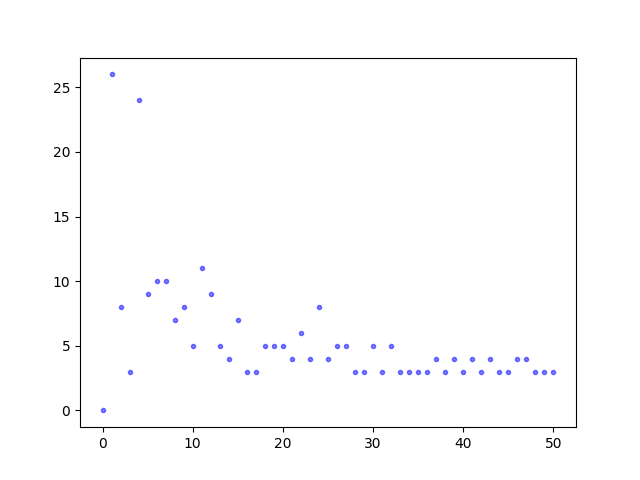
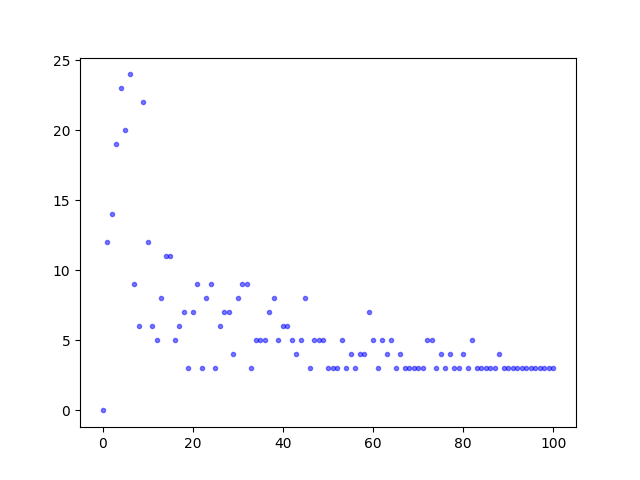
testing for 100 nodes

diff --git a/dijkstra/input_graph.h b/dijkstra/input_graph.h
@@ -3,16 +3,16 @@
 
 #include <stdint.h>
 
-#define NUM_NODES 50
-#define NUM_EDGES 282
+#define NUM_NODES 100
+#define NUM_EDGES 582
 
-uint NODES[51] = {
-0, 26, 34, 37, 61, 70, 80, 90, 97, 105, 110, 121, 130, 135, 139, 146, 149, 152, 157, 162, 167, 171, 177, 181, 189, 193, 198, 203, 206, 209, 214, 217, 222, 225, 228, 231, 234, 238, 241, 245, 248, 252, 255, 259, 262, 265, 269, 273, 276, 279, 282};
+uint NODES[101] = {
+0, 12, 26, 45, 68, 88, 112, 121, 127, 149, 161, 167, 172, 180, 191, 202, 207, 213, 220, 223, 230, 239, 242, 250, 259, 262, 268, 275, 282, 286, 294, 303, 312, 315, 320, 325, 330, 337, 345, 350, 356, 362, 367, 371, 376, 384, 387, 392, 397, 402, 405, 408, 411, 416, 419, 423, 426, 430, 434, 441, 446, 449, 454, 458, 463, 466, 470, 473, 476, 479, 482, 485, 490, 495, 498, 502, 505, 509, 512, 515, 519, 522, 527, 530, 533, 536, 539, 542, 546, 549, 552, 555, 558, 561, 564, 567, 570, 573, 576, 579, 582};
 
-uint EDGES[282] = {
-3, 4, 5, 6, 8, 9, 11, 13, 16, 17, 18, 19, 21, 23, 24, 26, 28, 29, 32, 34, 37, 40, 41, 44, 46, 49, 3, 4, 7, 8, 12, 15, 26, 36, 3, 5, 9, 0, 1, 2, 4, 5, 6, 7, 8, 11, 14, 15, 16, 18, 19, 21, 24, 25, 27, 30, 32, 34, 36, 41, 47, 0, 1, 3, 7, 9, 11, 20, 37, 45, 0, 2, 3, 6, 10, 20, 26, 38, 44, 46, 0, 3, 5, 10, 12, 20, 29, 33, 36, 48, 1, 3, 4, 23, 27, 32, 38, 0, 1, 3, 16, 17, 18, 19, 22, 0, 2, 4, 10, 49, 5, 6, 9, 13, 14, 15, 22, 23, 29, 40, 45, 0, 3, 4, 12, 13, 14, 31, 35, 39, 1, 6, 11, 22, 41, 0, 10, 11, 49, 3, 10, 11, 17, 25, 31, 35, 1, 3, 10, 0, 3, 8, 0, 8, 14, 28, 34, 0, 3, 8, 30, 39, 0, 3, 8, 21, 40, 4, 5, 6, 35, 0, 3, 19, 31, 33, 43, 8, 10, 12, 33, 0, 7, 10, 24, 25, 39, 42, 44, 0, 3, 23, 28, 3, 14, 23, 27, 37, 0, 1, 5, 38, 42, 3, 7, 25, 0, 17, 24, 0, 6, 10, 30, 43, 3, 18, 29, 11, 14, 21, 43, 48, 0, 3, 7, 6, 21, 22, 0, 3, 17, 11, 14, 20, 1, 3, 6, 45, 0, 4, 25, 5, 7, 26, 42, 11, 18, 23, 0, 10, 19, 46, 0, 3, 12, 23, 26, 38, 48, 21, 29, 31, 0, 5, 23, 4, 10, 36, 47, 0, 5, 40, 47, 3, 45, 46, 6, 31, 42, 0, 9, 13};
+uint EDGES[582] = {
+3, 4, 5, 8, 14, 31, 35, 61, 77, 79, 88, 91, 3, 4, 7, 9, 10, 13, 17, 19, 41, 50, 70, 79, 81, 87, 3, 4, 5, 7, 9, 12, 13, 15, 17, 19, 24, 40, 41, 43, 46, 47, 56, 71, 78, 0, 1, 2, 6, 7, 18, 21, 23, 24, 26, 27, 29, 30, 35, 36, 40, 44, 53, 66, 67, 76, 80, 84, 0, 1, 2, 5, 6, 8, 15, 16, 22, 24, 30, 32, 34, 42, 55, 58, 66, 68, 78, 92, 0, 2, 4, 6, 8, 10, 12, 14, 16, 20, 25, 28, 31, 33, 36, 37, 44, 45, 51, 53, 71, 77, 89, 96, 3, 4, 5, 23, 29, 46, 59, 62, 65, 1, 2, 3, 11, 37, 72, 0, 4, 5, 9, 10, 11, 12, 13, 14, 22, 25, 30, 31, 50, 55, 64, 69, 73, 74, 75, 80, 99, 1, 2, 8, 11, 17, 19, 29, 33, 45, 61, 67, 85, 1, 5, 8, 20, 23, 26, 7, 8, 9, 52, 75, 2, 5, 8, 18, 48, 69, 82, 87, 1, 2, 8, 15, 18, 20, 22, 28, 37, 81, 91, 0, 5, 8, 34, 49, 54, 68, 69, 70, 71, 90, 2, 4, 13, 16, 56, 4, 5, 15, 21, 63, 97, 1, 2, 9, 38, 80, 85, 90, 3, 12, 13, 1, 2, 9, 47, 77, 94, 97, 5, 10, 13, 21, 25, 26, 52, 95, 96, 3, 16, 20, 4, 8, 13, 27, 48, 54, 72, 93, 3, 6, 10, 32, 42, 60, 62, 65, 74, 2, 3, 4, 5, 8, 20, 27, 28, 94, 3, 10, 20, 33, 47, 63, 76, 3, 22, 25, 32, 34, 65, 95, 5, 13, 25, 86, 3, 6, 9, 35, 39, 40, 43, 45, 3, 4, 8, 38, 39, 49, 53, 54, 90, 0, 5, 8, 36, 56, 57, 79, 84, 88, 4, 23, 27, 5, 9, 26, 87, 93, 4, 14, 27, 43, 75, 0, 3, 29, 49, 52, 3, 5, 31, 38, 39, 41, 46, 5, 7, 13, 44, 59, 88, 98, 99, 17, 30, 36, 60, 68, 29, 30, 36, 66, 85, 95, 2, 3, 29, 42, 57, 63, 1, 2, 36, 50, 93, 4, 23, 40, 82, 2, 29, 34, 58, 89, 3, 5, 37, 48, 51, 59, 60, 83, 5, 9, 29, 2, 6, 36, 64, 73, 2, 19, 26, 51, 99, 12, 22, 44, 78, 94, 14, 30, 35, 1, 8, 41, 5, 44, 47, 11, 20, 35, 55, 89, 3, 5, 30, 14, 22, 30, 62, 4, 8, 52, 2, 15, 31, 57, 31, 40, 56, 58, 4, 43, 57, 70, 72, 82, 84, 6, 37, 44, 61, 64, 23, 38, 44, 0, 9, 59, 67, 73, 6, 23, 54, 86, 16, 26, 40, 83, 96, 8, 46, 59, 6, 23, 27, 83, 3, 4, 39, 3, 9, 61, 4, 14, 38, 8, 12, 14, 1, 14, 58, 2, 5, 14, 74, 92, 7, 22, 58, 76, 97, 8, 46, 61, 8, 23, 71, 91, 8, 11, 34, 3, 26, 72, 86, 0, 5, 19, 2, 4, 48, 0, 1, 31, 81, 3, 8, 17, 1, 13, 79, 92, 98, 12, 42, 58, 44, 63, 65, 3, 31, 58, 9, 17, 39, 28, 62, 76, 1, 12, 33, 98, 0, 31, 37, 5, 43, 52, 14, 17, 30, 0, 13, 74, 4, 71, 81, 22, 33, 41, 19, 25, 48, 20, 27, 39, 5, 20, 63, 16, 19, 72, 37, 81, 87, 8, 37, 47};
 
-uint WEIGHTS[282] = {
-7, 5, 8, 6, 6, 1, 6, 6, 4, 3, 6, 8, 8, 6, 5, 7, 6, 5, 9, 5, 1, 5, 4, 4, 1, 9, 3, 1, 6, 5, 2, 1, 7, 7, 5, 3, 4, 1, 5, 3, 7, 5, 4, 7, 2, 1, 3, 6, 3, 6, 8, 6, 7, 1, 2, 7, 3, 1, 4, 7, 8, 7, 1, 5, 6, 5, 2, 9, 6, 4, 9, 7, 7, 4, 7, 5, 2, 4, 8, 7, 1, 4, 2, 9, 2, 8, 8, 4, 4, 3, 5, 4, 9, 8, 8, 3, 6, 3, 2, 2, 7, 5, 5, 8, 1, 2, 8, 8, 3, 5, 6, 3, 1, 1, 7, 9, 6, 3, 9, 8, 4, 5, 8, 6, 9, 9, 7, 7, 3, 7, 7, 7, 6, 2, 4, 3, 3, 5, 3, 8, 1, 9, 6, 3, 3, 5, 8, 2, 2, 9, 1, 8, 7, 5, 2, 2, 5, 1, 2, 3, 2, 5, 4, 8, 7, 9, 4, 8, 9, 4, 1, 2, 1, 9, 9, 5, 6, 1, 9, 4, 5, 8, 4, 4, 7, 3, 2, 8, 6, 6, 8, 4, 1, 8, 3, 3, 8, 9, 6, 3, 9, 4, 2, 6, 2, 3, 3, 7, 8, 3, 8, 6, 6, 6, 5, 2, 4, 1, 4, 7, 7, 4, 5, 8, 6, 8, 5, 4, 3, 3, 3, 2, 4, 6, 1, 4, 8, 1, 3, 5, 2, 5, 6, 2, 4, 4, 3, 2, 3, 5, 5, 1, 5, 1, 6, 6, 9, 5, 9, 9, 2, 5, 2, 4, 1, 5, 3, 1, 2, 8, 3, 9, 7, 4, 3, 1, 5, 2, 3, 5, 4, 6};
+uint WEIGHTS[582] = {
+9, 7, 7, 1, 2, 7, 3, 8, 8, 6, 2, 9, 1, 5, 5, 7, 8, 8, 9, 5, 1, 2, 3, 5, 3, 4, 3, 9, 1, 7, 4, 8, 5, 9, 8, 3, 4, 4, 9, 5, 9, 2, 5, 4, 3, 5, 7, 5, 7, 8, 4, 5, 6, 7, 8, 4, 5, 8, 4, 5, 7, 9, 6, 7, 7, 8, 2, 5, 7, 4, 9, 6, 5, 5, 1, 5, 3, 3, 6, 3, 9, 1, 4, 6, 4, 4, 8, 1, 3, 4, 4, 2, 4, 5, 7, 1, 5, 3, 2, 3, 8, 1, 7, 6, 6, 5, 8, 1, 3, 7, 1, 3, 1, 7, 9, 1, 3, 1, 6, 1, 2, 8, 5, 8, 3, 1, 4, 4, 8, 5, 7, 2, 9, 5, 6, 9, 4, 6, 5, 8, 1, 6, 5, 9, 7, 8, 5, 5, 2, 6, 5, 1, 5, 6, 9, 2, 7, 9, 2, 3, 3, 6, 8, 4, 5, 5, 4, 2, 5, 4, 6, 2, 7, 8, 8, 4, 6, 7, 4, 9, 2, 3, 1, 1, 6, 5, 3, 5, 5, 1, 4, 5, 3, 5, 8, 2, 6, 1, 1, 4, 6, 3, 1, 4, 7, 6, 7, 5, 8, 6, 9, 4, 5, 3, 2, 8, 4, 3, 2, 3, 4, 7, 4, 7, 4, 8, 5, 1, 6, 9, 4, 4, 6, 4, 6, 3, 3, 3, 2, 7, 9, 4, 6, 5, 8, 5, 3, 1, 1, 4, 8, 3, 2, 6, 3, 9, 7, 9, 7, 8, 2, 9, 1, 3, 9, 8, 8, 5, 9, 4, 3, 6, 4, 4, 7, 6, 1, 2, 8, 1, 6, 1, 5, 4, 3, 3, 4, 6, 5, 5, 7, 6, 9, 9, 1, 5, 8, 2, 4, 6, 4, 4, 6, 3, 6, 2, 1, 8, 5, 5, 1, 8, 1, 6, 9, 2, 8, 2, 1, 3, 8, 6, 2, 3, 4, 6, 8, 8, 3, 8, 6, 5, 7, 4, 1, 2, 2, 8, 6, 9, 3, 1, 5, 9, 3, 5, 7, 7, 5, 8, 3, 5, 4, 8, 2, 5, 4, 6, 1, 6, 2, 1, 8, 2, 8, 6, 6, 9, 6, 2, 9, 8, 5, 4, 9, 1, 4, 3, 3, 8, 6, 9, 8, 2, 3, 2, 2, 9, 7, 8, 5, 1, 9, 2, 3, 4, 2, 2, 4, 6, 8, 2, 9, 8, 2, 9, 3, 9, 2, 5, 3, 3, 8, 4, 6, 8, 9, 5, 7, 1, 8, 2, 8, 4, 3, 3, 8, 7, 2, 1, 5, 3, 1, 4, 4, 3, 9, 8, 9, 7, 3, 3, 1, 1, 2, 2, 5, 2, 2, 8, 8, 9, 9, 6, 8, 3, 5, 1, 6, 7, 7, 1, 7, 3, 6, 2, 7, 3, 3, 4, 1, 2, 5, 8, 9, 8, 1, 1, 5, 4, 5, 5, 2, 2, 1, 8, 7, 6, 3, 6, 4, 3, 2, 5, 2, 8, 9, 8, 2, 8, 5, 5, 2, 3, 2, 9, 3, 6, 1, 2, 1, 6, 5, 1, 2, 7, 2, 7, 1, 2, 7, 5, 8, 3, 6, 2, 8, 5, 3, 8, 9, 6, 2, 8, 5, 9, 5, 7, 3, 5, 1, 4, 1, 8, 1, 2, 6, 2, 1, 8, 7, 6, 6, 3, 8, 4, 2, 1, 3, 1, 4, 5, 3, 2, 5, 8, 3, 8, 5, 8, 2, 2, 7, 3, 1, 6, 7, 1, 3, 1, 7, 3};
 
 #endif

diff --git a/dijkstra/main.cpp b/dijkstra/main.cpp
@@ -8,6 +8,7 @@
 #include <sstream>
 using namespace std;
 
+#include "CycleTimer.h"
 #include "input_graph.h"
 
 uint N = NUM_NODES; // number of nodes in the graph
@@ -54,6 +55,8 @@ void dijkstra_ref(uint *ref_dists) {
     }
     ref_dists[0] = 0;
 
+    double startTime = CycleTimer::currentSeconds();
+
     // Find shortest path for all vertices
     for (uint count = 0; count < N-1; count++) {
         // Find the minimum distance node from the set of unfinalized nodes.
@@ -77,6 +80,10 @@ void dijkstra_ref(uint *ref_dists) {
             }
         }
     }
+    double endTime = CycleTimer::currentSeconds();
+    double overallDuration = endTime - startTime;
+    int totalBytes = sizeof(uint) * (N + M) * 2; // TODO: UPDATE LATER
+    printf("Sequential Ref: %.3f ms\t\t[%.3f GB/s]\n", 1000.f * overallDuration, toBW(totalBytes, overallDuration));
 }
 
 
@@ -89,7 +96,8 @@ void verifyCorrectness() {
             printf("ref_dists:\n");
             for (uint j = 0; j < N; j++)
             {
-                printf("%d: %d\n", j, ref_dists[j]);
+                printf("ref %d: %d || ", j, ref_dists[j]);
+                printf("baseline %d: %d\n", j, dists[j]);
             }
             delete[] ref_dists;
             return;

diff --git a/tools/generate_graph.py b/tools/generate_graph.py
@@ -12,14 +12,12 @@ def plot_distribution(spW):
     prev_row = np.insert(prev_row, 0, 0)
     row_length = row - prev_row
     
-    '''
     plt.figure()
     plt.hist(row_length)
     plt.xlabel('degree')
     plt.ylabel('number of nodes')
     plt.ylim(0,100)
     plt.savefig("degree_distribution.png")
-    '''
 
     plt.figure()
     node_id = np.arange(len(row_length))
